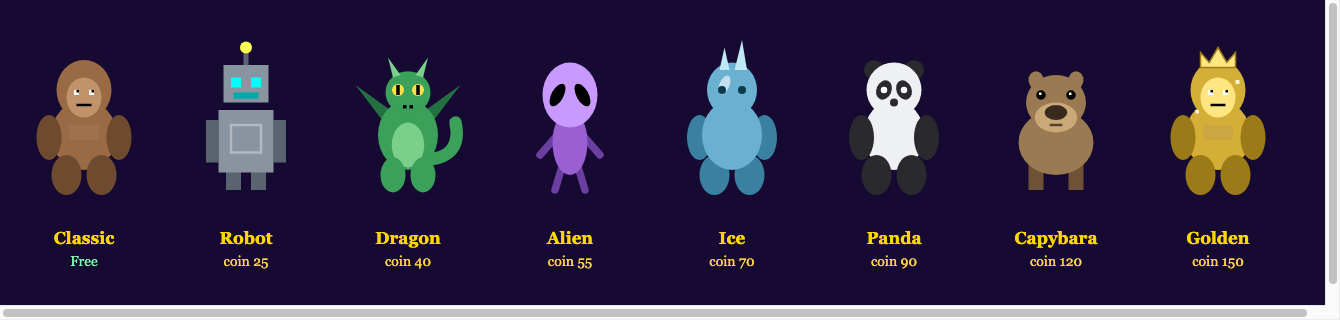
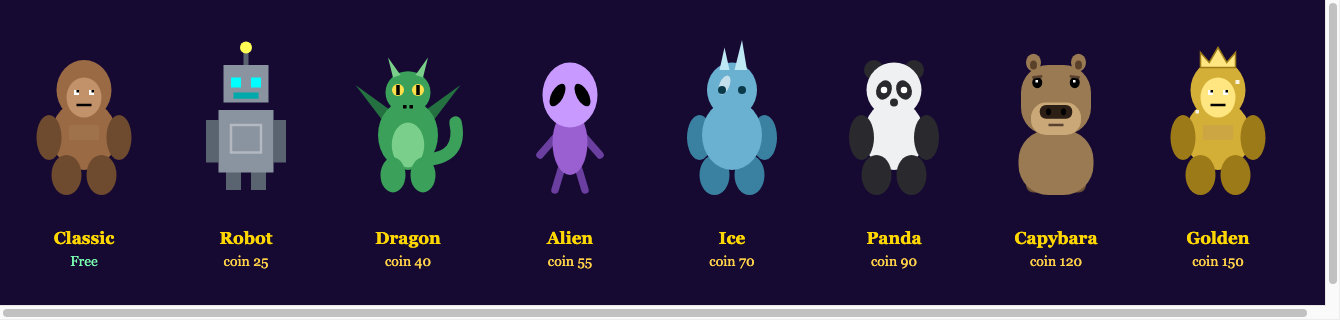
v24: capibară REFĂCUTĂ — cap blocky + năsuc lat plat (arată a capibară, nu a urs)
Userul: 'cea mai urata capibara'. Redesenat cu helper rr() (rounded-rect):
cap dreptunghiular/loaf (NU rotund), urechi mici, NAS pad lat plat (semnătura capibarei),
ochi mici sus + pleoape sleepy (look chill), corp loaf. Distinct de gorilă/urs.
Verificat: node --check + autopilot 200 runde ZERO erori + render close-up + galerie. v23->v24.

Changed region(s): [[0.7343, 0.1562, 0.8261, 0.4688], [0.7343, 0.5, 0.8261, 0.625]]

diff --git a/index.html b/index.html
@@ -1698,17 +1698,26 @@ function drawIce(c, x, y, sk) {
   c.fillStyle = 'rgba(255,255,255,0.6)'; c.save(); c.translate(x - 3, y - 22); c.rotate(0.4); c.beginPath(); c.ellipse(0, 0, 2, 4, 0, 0, TAU); c.fill(); c.restore();
   c.fillStyle = '#0a3a4a'; c.beginPath(); c.arc(x - 4, y - 20, 1.6, 0, TAU); c.fill(); c.beginPath(); c.arc(x + 4, y - 20, 1.6, 0, TAU); c.fill();
 }
+function rr(c, x, y, w, h, r) {   // rounded rect path (caller face .fill())
+  c.beginPath(); c.moveTo(x + r, y);
+  c.arcTo(x + w, y, x + w, y + h, r); c.arcTo(x + w, y + h, x, y + h, r);
+  c.arcTo(x, y + h, x, y, r); c.arcTo(x, y, x + w, y, r); c.closePath();
+}
 function drawCapybara(c, x, y, sk) {
-  c.fillStyle = sk.limb; c.fillRect(x - 11, y + 8, 6, 12); c.fillRect(x + 5, y + 8, 6, 12);   // picioare scurte
-  c.fillStyle = sk.body; c.beginPath(); c.ellipse(x, y + 1, 15, 13, 0, 0, TAU); c.fill();      // corp barel
-  c.beginPath(); c.ellipse(x, y - 15, 12, 11, 0, 0, TAU); c.fill();                            // cap mare, blocky
-  c.beginPath(); c.ellipse(x - 8, y - 24, 3, 3.5, 0, 0, TAU); c.fill();                        // urechi
-  c.beginPath(); c.ellipse(x + 8, y - 24, 3, 3.5, 0, 0, TAU); c.fill();
-  c.fillStyle = sk.face; c.beginPath(); c.ellipse(x, y - 9, 8.5, 6, 0, 0, TAU); c.fill();        // bot deschis
-  c.fillStyle = '#3a2a1e'; c.beginPath(); c.ellipse(x, y - 11, 4.5, 3, 0, 0, TAU); c.fill();     // nas blunt
-  c.fillStyle = '#000'; c.beginPath(); c.arc(x - 6, y - 18, 1.9, 0, TAU); c.fill(); c.beginPath(); c.arc(x + 6, y - 18, 1.9, 0, TAU); c.fill();  // ochi mici, sus
-  c.fillStyle = '#fff'; c.fillRect(x - 6.8, y - 19, 1, 1); c.fillRect(x + 5.2, y - 19, 1, 1);
-  c.strokeStyle = '#5a4030'; c.lineWidth = 1; c.beginPath(); c.moveTo(x - 2.5, y - 6); c.lineTo(x + 2.5, y - 6); c.stroke();  // gură chill
+  c.fillStyle = sk.limb; rr(c, x - 12, y + 8, 7, 13, 3); c.fill(); rr(c, x + 5, y + 8, 7, 13, 3); c.fill();   // picioare scurte
+  c.fillStyle = sk.body; rr(c, x - 15, y - 4, 30, 26, 12); c.fill();                                          // corp loaf
+  rr(c, x - 14, y - 30, 28, 28, 11); c.fill();                                                                // CAP blocky (semnătura capibarei — NU rotund)
+  c.beginPath(); c.ellipse(x - 9, y - 31, 3, 3.5, 0, 0, TAU); c.fill();                                       // urechi MICI sus
+  c.beginPath(); c.ellipse(x + 9, y - 31, 3, 3.5, 0, 0, TAU); c.fill();
+  c.fillStyle = '#5a4028'; c.beginPath(); c.ellipse(x - 9, y - 30, 1.4, 1.8, 0, 0, TAU); c.fill(); c.beginPath(); c.ellipse(x + 9, y - 30, 1.4, 1.8, 0, 0, TAU); c.fill();
+  c.fillStyle = sk.face; rr(c, x - 10, y - 15, 20, 13, 6); c.fill();                                          // bot blunt mare (jumătatea de jos a capului)
+  c.fillStyle = '#2c1f16'; rr(c, x - 6.5, y - 14, 13, 5.5, 2.5); c.fill();                                    // NAS pad lat plat
+  c.fillStyle = '#000'; c.beginPath(); c.ellipse(x - 3, y - 11.3, 1, 1.4, 0, 0, TAU); c.fill(); c.beginPath(); c.ellipse(x + 3, y - 11.3, 1, 1.4, 0, 0, TAU); c.fill();  // nări
+  c.fillStyle = '#000'; c.beginPath(); c.ellipse(x - 7.5, y - 23, 2, 2.3, 0, 0, TAU); c.fill(); c.beginPath(); c.ellipse(x + 7.5, y - 23, 2, 2.3, 0, 0, TAU); c.fill();   // ochi mici, sus, depărtați
+  c.fillStyle = '#fff'; c.fillRect(x - 8.2, y - 24, 1, 1); c.fillRect(x + 6.8, y - 24, 1, 1);
+  c.strokeStyle = '#5a4030'; c.lineWidth = 1; c.beginPath();                                                  // pleoape sleepy + gură chill
+  c.moveTo(x - 9.5, y - 25); c.lineTo(x - 5.5, y - 25.5); c.moveTo(x + 5.5, y - 25.5); c.lineTo(x + 9.5, y - 25);
+  c.moveTo(x - 3, y - 6); c.lineTo(x + 3, y - 6); c.stroke();
 }
 function drawCharacter(c, id, x, y, lUp, rUp) {
   const sk = skinById(id);
@@ -2298,7 +2307,7 @@ window.__mpPeerLeft = () => { showToast('⚠️ Opponent disconnected — waitin
 })();
 
 // versiune vizibilă (ca să știm exact ce rulează)
-const APP_VERSION = 'v23';
+const APP_VERSION = 'v24';
 (function () { const v = document.getElementById('ver'); if (v) v.textContent = 'Gorillas ' + APP_VERSION; })();
 
 // înregistrează service worker + AUTO-REÎNCARCĂ la versiune nouă (nu mai rămâi blocat pe cache)

diff --git a/sw.js b/sw.js
@@ -1,5 +1,5 @@
 // Service worker: network-first pentru HTML (mereu ultima versiune când e net), cache-first pt restul (offline OK)
-const CACHE = 'gorillas-v23';
+const CACHE = 'gorillas-v24';
 const ASSETS = ['./', './index.html', './manifest.json', './icon-192.png', './icon-512.png', './icon-180.png'];
 
 self.addEventListener('install', (e) => {